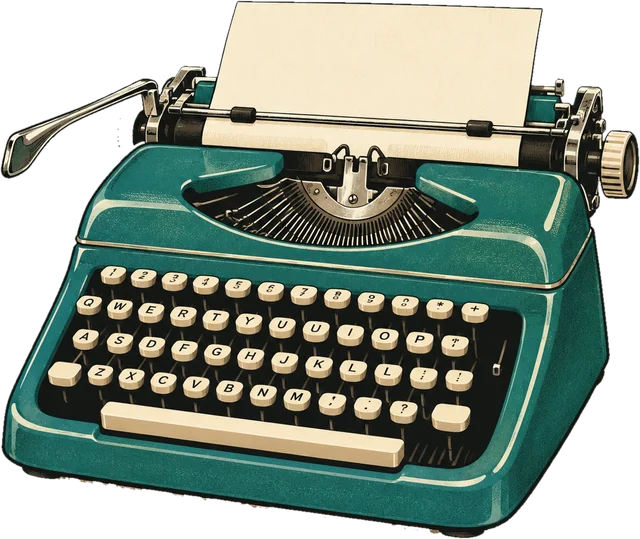
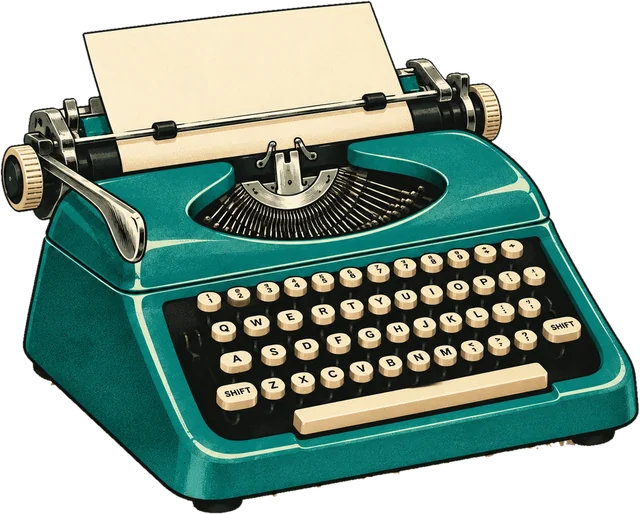
Contact typewriter: new image facing the form, placed lower on desktop

diff --git a/index.html b/index.html
@@ -13,7 +13,7 @@
   <link rel="icon" href="images/favicon.svg" type="image/svg+xml">
   <link rel="preload" href="fonts/dm-sans-normal-400-700.woff2" as="font" type="font/woff2" crossorigin>
   <link rel="preload" href="fonts/shrikhand-normal-400.woff2" as="font" type="font/woff2" crossorigin>
-  <link rel="stylesheet" href="styles.css?v=93">
+  <link rel="stylesheet" href="styles.css?v=94">
 </head>
 <body>
   <a class="skip-link" href="#main">Skip to main content</a>
@@ -607,7 +607,7 @@
           <h2 id="contact-title">Stay tuned? Nah, reach out.</h2>
           <p>Tell me a little about your project and I'll get back to you as soon as I can.</p>
           <p>Prefer email? <a href="mailto:hello@yourdomain.com">hello@yourdomain.com</a></p>
-          <img class="typewriter50" src="images/contact-typewriter.webp" width="640" height="539" alt="" loading="lazy" decoding="async">
+          <img class="typewriter50" src="images/contact-typewriter.webp?v=3" width="640" height="514" alt="" loading="lazy" decoding="async">
         </div>
         <!-- PLACEHOLDER: replace YOUR_FORM_ID with the Formspree form ID -->
         <form class="contact-form" action="https://formspree.io/f/YOUR_FORM_ID" method="POST">

diff --git a/styles.css b/styles.css
@@ -1413,3 +1413,4 @@ body { background: var(--white-warm); }
 /* Contact: a 1950s portable typewriter under the email line */
 .typewriter50 { display: block; width: min(16rem, 70%); height: auto; margin-top: 1.5rem; position: relative; z-index: 1; }
 @media (max-width: 52em) { .typewriter50 { width: min(12rem, 56%); margin-top: 1.25rem; } }
+@media (min-width: 52.01em) { .typewriter50 { margin: 4.5rem 0 0 auto; } }
